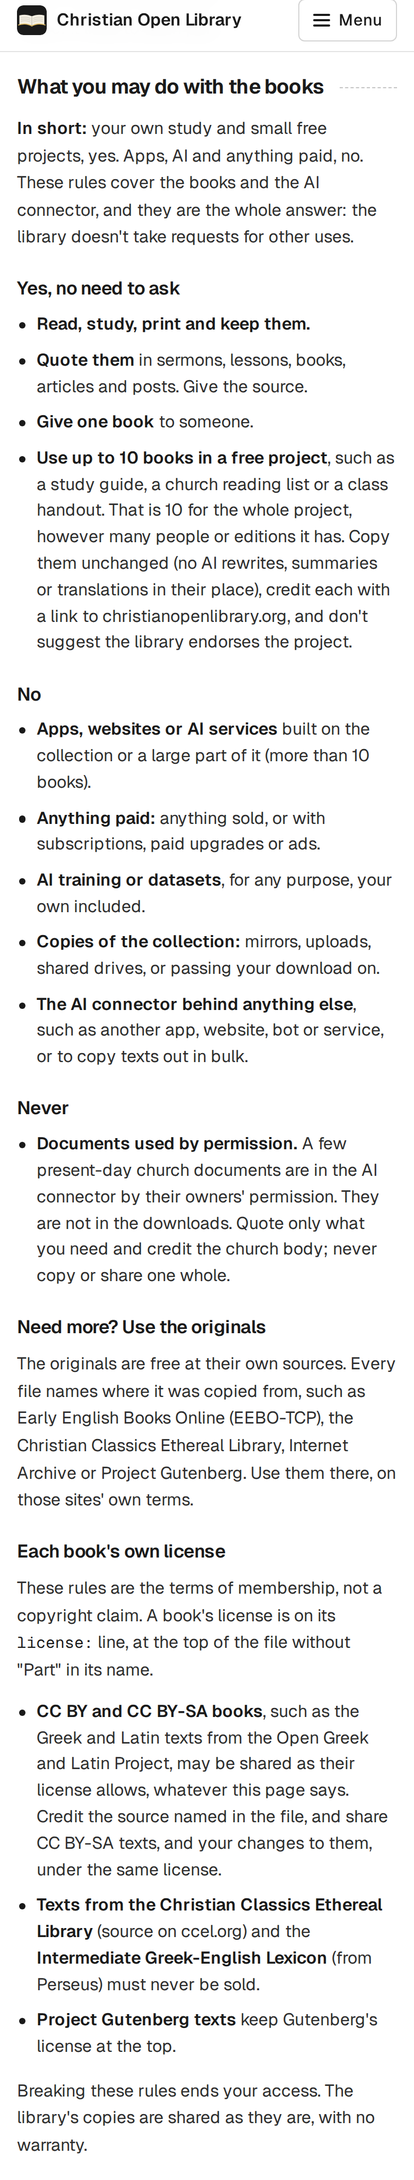
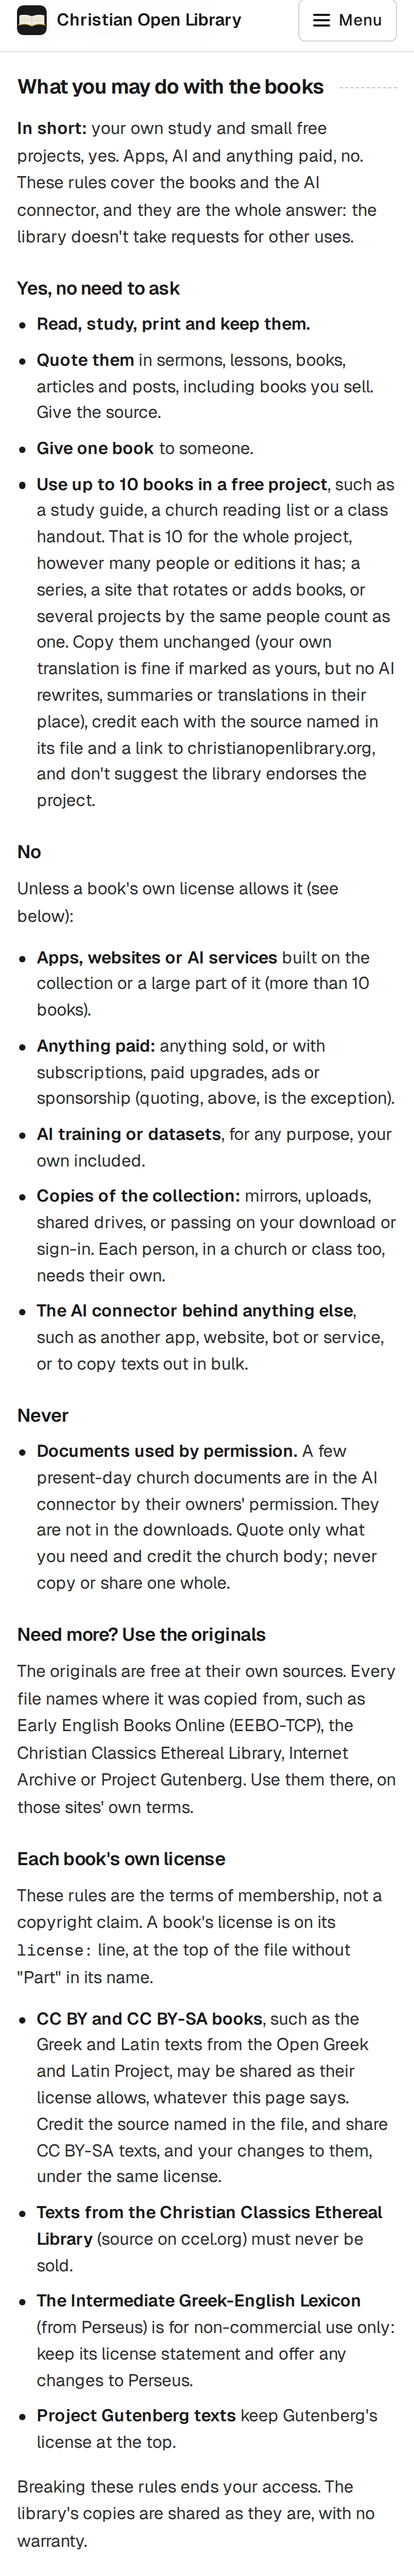
Reuse rules: review fixes, handoff

diff --git a/docs/download.html b/docs/download.html
@@ -106,17 +106,18 @@
 <h3>Yes, no need to ask</h3>
 <ul class="points">
   <li><strong>Read, study, print and keep them.</strong></li>
-  <li><strong>Quote them</strong> in sermons, lessons, books, articles and posts. Give the source.</li>
+  <li><strong>Quote them</strong> in sermons, lessons, books, articles and posts, including books you sell. Give the source.</li>
   <li><strong>Give one book</strong> to someone.</li>
-  <li><strong>Use up to 10 books in a free project</strong>, such as a study guide, a church reading list or a class handout. That is 10 for the whole project, however many people or editions it has. Copy them unchanged (no AI rewrites, summaries or translations in their place), credit each with a link to christianopenlibrary.org, and don't suggest the library endorses the project.</li>
+  <li><strong>Use up to 10 books in a free project</strong>, such as a study guide, a church reading list or a class handout. That is 10 for the whole project, however many people or editions it has; a series, a site that rotates or adds books, or several projects by the same people count as one. Copy them unchanged (your own translation is fine if marked as yours, but no AI rewrites, summaries or translations in their place), credit each with the source named in its file and a link to christianopenlibrary.org, and don't suggest the library endorses the project.</li>
 </ul>
 
 <h3>No</h3>
+<p>Unless a book's own license allows it (see below):</p>
 <ul class="points">
   <li><strong>Apps, websites or AI services</strong> built on the collection or a large part of it (more than 10 books).</li>
-  <li><strong>Anything paid:</strong> anything sold, or with subscriptions, paid upgrades or ads.</li>
+  <li><strong>Anything paid:</strong> anything sold, or with subscriptions, paid upgrades, ads or sponsorship (quoting, above, is the exception).</li>
   <li><strong>AI training or datasets</strong>, for any purpose, your own included.</li>
-  <li><strong>Copies of the collection:</strong> mirrors, uploads, shared drives, or passing your download on.</li>
+  <li><strong>Copies of the collection:</strong> mirrors, uploads, shared drives, or passing on your download or sign-in. Each person, in a church or class too, needs their own.</li>
   <li><strong>The AI connector behind anything else</strong>, such as another app, website, bot or service, or to copy texts out in bulk.</li>
 </ul>
 
@@ -132,7 +133,8 @@
 <p>These rules are the terms of membership, not a copyright claim. A book's license is on its <code>license:</code> line, at the top of the file without "Part" in its name.</p>
 <ul class="points">
   <li><strong>CC BY and CC BY-SA books</strong>, such as the Greek and Latin texts from the Open Greek and Latin Project, may be shared as their license allows, whatever this page says. Credit the source named in the file, and share CC BY-SA texts, and your changes to them, under the same license.</li>
-  <li><strong>Texts from the Christian Classics Ethereal Library</strong> (source on ccel.org) and the <strong>Intermediate Greek-English Lexicon</strong> (from Perseus) must never be sold.</li>
+  <li><strong>Texts from the Christian Classics Ethereal Library</strong> (source on ccel.org) must never be sold.</li>
+  <li><strong>The Intermediate Greek-English Lexicon</strong> (from Perseus) is for non-commercial use only: keep its license statement and offer any changes to Perseus.</li>
   <li><strong>Project Gutenberg texts</strong> keep Gutenberg's license at the top.</li>
 </ul>
 <p>Breaking these rules ends your access. The library's copies are shared as they are, with no warranty.</p>

diff --git a/src/download.html b/src/download.html
@@ -47,17 +47,18 @@
 <h3>Yes, no need to ask</h3>
 <ul class="points">
   <li><strong>Read, study, print and keep them.</strong></li>
-  <li><strong>Quote them</strong> in sermons, lessons, books, articles and posts. Give the source.</li>
+  <li><strong>Quote them</strong> in sermons, lessons, books, articles and posts, including books you sell. Give the source.</li>
   <li><strong>Give one book</strong> to someone.</li>
-  <li><strong>Use up to 10 books in a free project</strong>, such as a study guide, a church reading list or a class handout. That is 10 for the whole project, however many people or editions it has. Copy them unchanged (no AI rewrites, summaries or translations in their place), credit each with a link to christianopenlibrary.org, and don't suggest the library endorses the project.</li>
+  <li><strong>Use up to 10 books in a free project</strong>, such as a study guide, a church reading list or a class handout. That is 10 for the whole project, however many people or editions it has; a series, a site that rotates or adds books, or several projects by the same people count as one. Copy them unchanged (your own translation is fine if marked as yours, but no AI rewrites, summaries or translations in their place), credit each with the source named in its file and a link to christianopenlibrary.org, and don't suggest the library endorses the project.</li>
 </ul>
 
 <h3>No</h3>
+<p>Unless a book's own license allows it (see below):</p>
 <ul class="points">
   <li><strong>Apps, websites or AI services</strong> built on the collection or a large part of it (more than 10 books).</li>
-  <li><strong>Anything paid:</strong> anything sold, or with subscriptions, paid upgrades or ads.</li>
+  <li><strong>Anything paid:</strong> anything sold, or with subscriptions, paid upgrades, ads or sponsorship (quoting, above, is the exception).</li>
   <li><strong>AI training or datasets</strong>, for any purpose, your own included.</li>
-  <li><strong>Copies of the collection:</strong> mirrors, uploads, shared drives, or passing your download on.</li>
+  <li><strong>Copies of the collection:</strong> mirrors, uploads, shared drives, or passing on your download or sign-in. Each person, in a church or class too, needs their own.</li>
   <li><strong>The AI connector behind anything else</strong>, such as another app, website, bot or service, or to copy texts out in bulk.</li>
 </ul>
 
@@ -73,7 +74,8 @@
 <p>These rules are the terms of membership, not a copyright claim. A book's license is on its <code>license:</code> line, at the top of the file without "Part" in its name.</p>
 <ul class="points">
   <li><strong>CC BY and CC BY-SA books</strong>, such as the Greek and Latin texts from the Open Greek and Latin Project, may be shared as their license allows, whatever this page says. Credit the source named in the file, and share CC BY-SA texts, and your changes to them, under the same license.</li>
-  <li><strong>Texts from the Christian Classics Ethereal Library</strong> (source on ccel.org) and the <strong>Intermediate Greek-English Lexicon</strong> (from Perseus) must never be sold.</li>
+  <li><strong>Texts from the Christian Classics Ethereal Library</strong> (source on ccel.org) must never be sold.</li>
+  <li><strong>The Intermediate Greek-English Lexicon</strong> (from Perseus) is for non-commercial use only: keep its license statement and offer any changes to Perseus.</li>
   <li><strong>Project Gutenberg texts</strong> keep Gutenberg's license at the top.</li>
 </ul>
 <p>Breaking these rules ends your access. The library's copies are shared as they are, with no warranty.</p>

diff --git a/reuse-proposals/HANDOFF-reuse-rules.md b/reuse-proposals/HANDOFF-reuse-rules.md
@@ -1,0 +1,57 @@
+# Reuse rules: handoff (2026-11-14)
+
+Drafts only. Nothing merged, deployed, pushed to .github, posted or sent.
+
+## What changed
+- **Website** (branch `reuse-rules`, worktree /mnt/photos/library-work/reuse-rules-website):
+  `download.html#reuse` rewritten as Yes / No / Never, "use the originals", and each book's own
+  license. No invitation to ask: "the library doesn't take requests for other uses". `setup.html#terms`
+  and the home tile point to it (the old "ask first" / "ask before building on it" are gone).
+  "A few" = **10 books per free project**, counted for the whole project (series, rotating sites,
+  several projects by the same people count as one). Screenshot: reuse-proposals/reuse-390px.png.
+- **Access form**: reuse-proposals/request-library-access.yml (diff vs live: .diff). New required
+  dropdown "Will you put the books in an app, website or AI service?" (No / Yes, up to 10 books in a
+  free project / Yes, more than 10, AI training or paid). Terms checkbox and intro updated.
+- **Standard replies**: reuse-proposals/reply-github-invite.txt, reply-github-no-invite.txt,
+  reply-email.txt (made by x/reuse_replies.py; fixed text, never the model's).
+- **Watchers** (connector branch `decline-reuse`, worktree /mnt/photos/library-work/reuse-rules-connector,
+  commits f897669, 2056705): new call `decline-reuse` in github_watch.py and email_watch.py with the
+  standard reply attached. GitHub: Matt says "decline-reuse N" (or "decline-reuse N invite") and a
+  session runs `deploy/decline-reuse.sh N [--invite]` (comment, close as not planned, optional invite).
+  Email: "draft the reply to <name>" as before. approve.sh's welcome comment states the new rules.
+  The email "decide" reply no longer asks people what they have in mind. Tests: 25 ok.
+
+## Reviewer (fresh Opus subagent) and what was done
+Fixed: invite now only when Matt adds `--invite` (a stranger's plea can't set it); email "decide" reply
+invited requests; 10-book website/app rule disagreed between page and form/replies (now: 10 books in
+any free project OK; more = no; form has three answers); own-license carve-out added to No list,
+replies, checkbox; credit the source named in the file (CCEL, CC BY); Perseus lexicon = non-commercial
+only, keep statement, offer changes; quoting in sold books is fine; project-splitting closed; ads ->
+ads or sponsorship; no sharing download or sign-in in a church/class; own human translation OK if
+marked; approve.sh no longer says "share"; email prompt may point to the rules; greeting uses a
+display name only if it looks like a plain first name; judge sees earlier closed requests; form says
+"If approved, we'll invite".
+Rejected: banning loading the books into one's own AI tool (NotebookLM etc.) for personal study:
+that would reopen Matt's "personal study: yes". Training and datasets stay banned. Matt's call.
+Rejected: "promotes a paid product" in the paid line: would catch every church site.
+Checked: permission documents (URCNA) are not in the books catalog.
+
+## To make it live (only after Matt says yes)
+```
+# 1. website
+cd ~/library-work/website && git merge --ff-only reuse-rules && git push origin main
+#    (reuse-proposals/ isn't served; delete it first if you don't want it in the repo:
+#     git rm -r reuse-proposals && git commit -m "drop proposals")
+# 2. access form (after the website is live, so the link works)
+gh api -X PUT repos/Christian-open-library/.github/contents/.github/ISSUE_TEMPLATE/request-library-access.yml \
+  -f message="Access form: app/website/AI question; new reuse rules" \
+  -f content="$(base64 -w0 /mnt/photos/library-work/reuse-rules-website/reuse-proposals/request-library-access.yml)" \
+  -f sha="$(gh api repos/Christian-open-library/.github/contents/.github/ISSUE_TEMPLATE/request-library-access.yml --jq .sha)"
+# 3. watchers (cron runs from this tree; fast-forward only)
+cd ~/library-connector && git merge --ff-only decline-reuse
+COL_BOOKS_TOOLS=/mnt/photos/library-work/books-sweep8/tools .venv/bin/python -m unittest indexer.tests.test_watchers
+# 4. cleanup
+git -C ~/library-work/website worktree remove /mnt/photos/library-work/reuse-rules-website
+git -C ~/library-connector worktree remove /mnt/photos/library-work/reuse-rules-connector
+```
+Then update memories library-x-replies and feedback-cautious-library-grants (new rules, decline-reuse).
